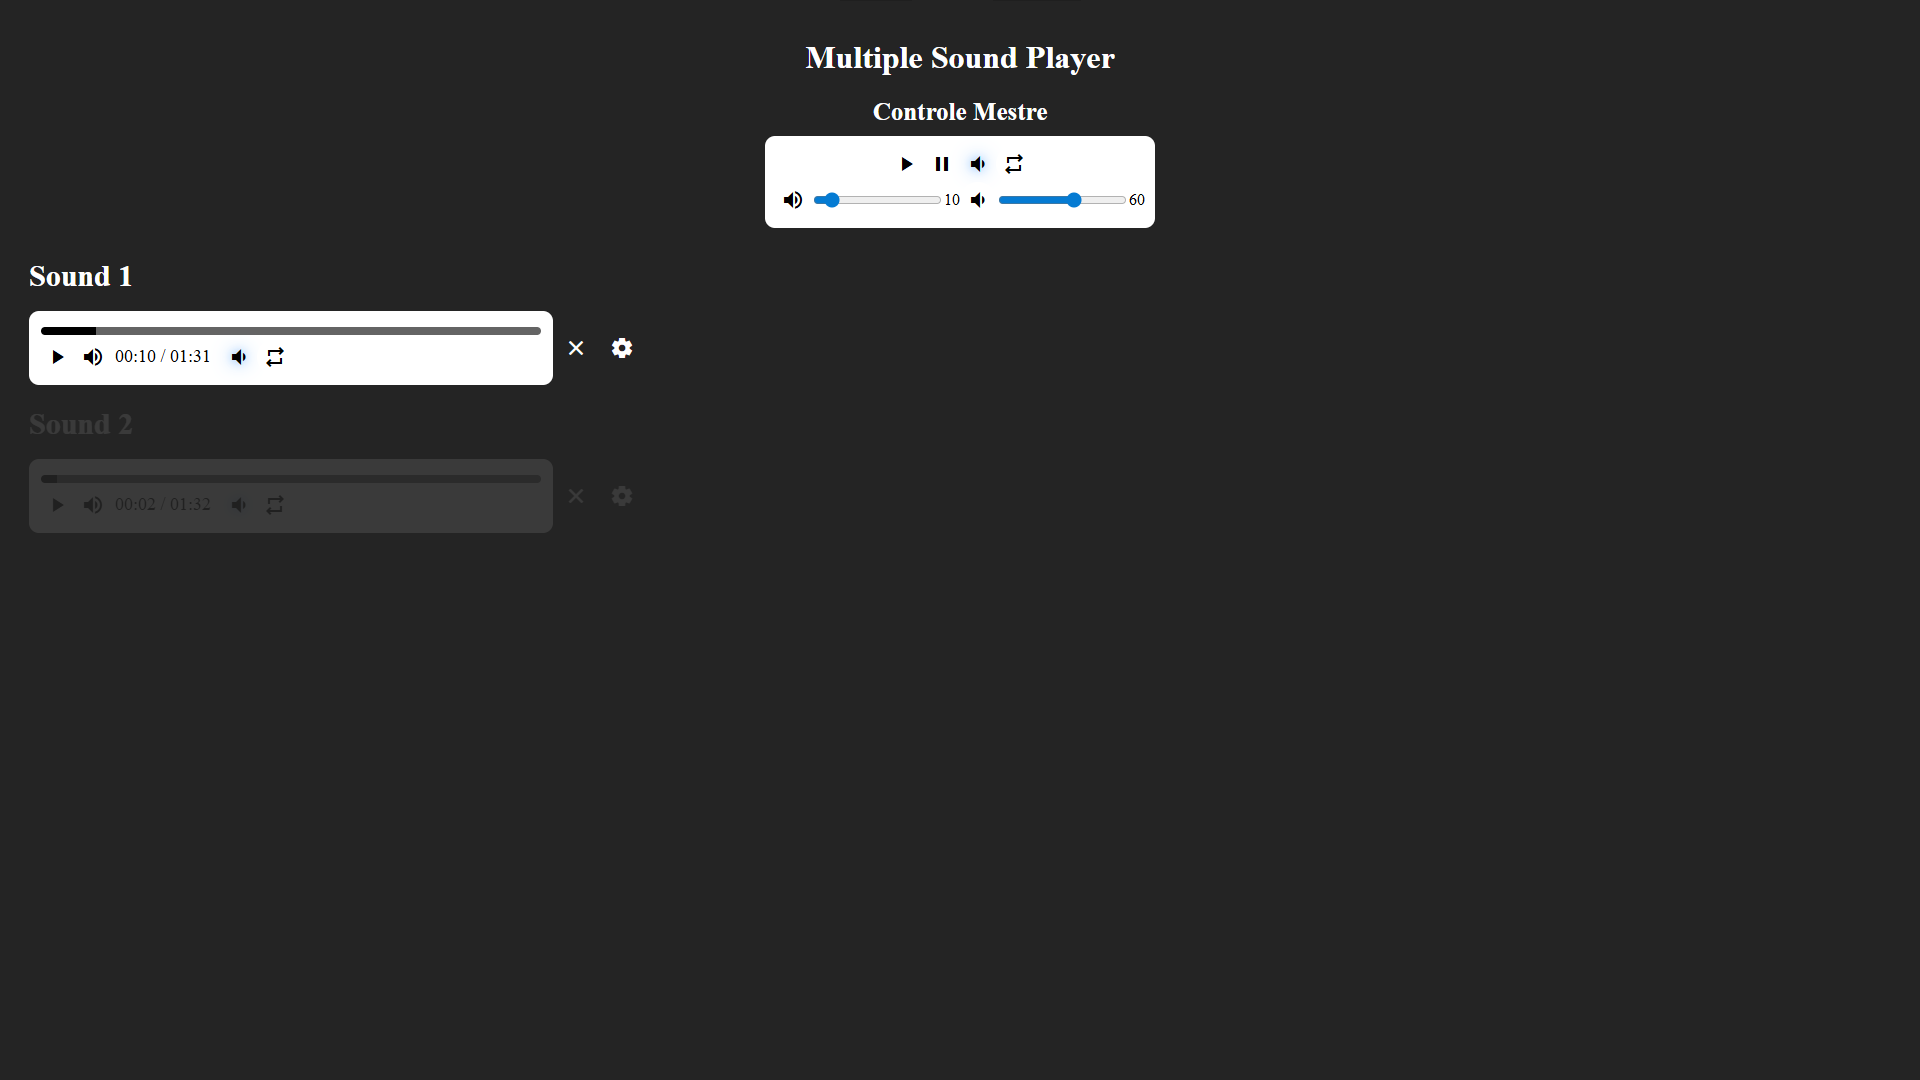
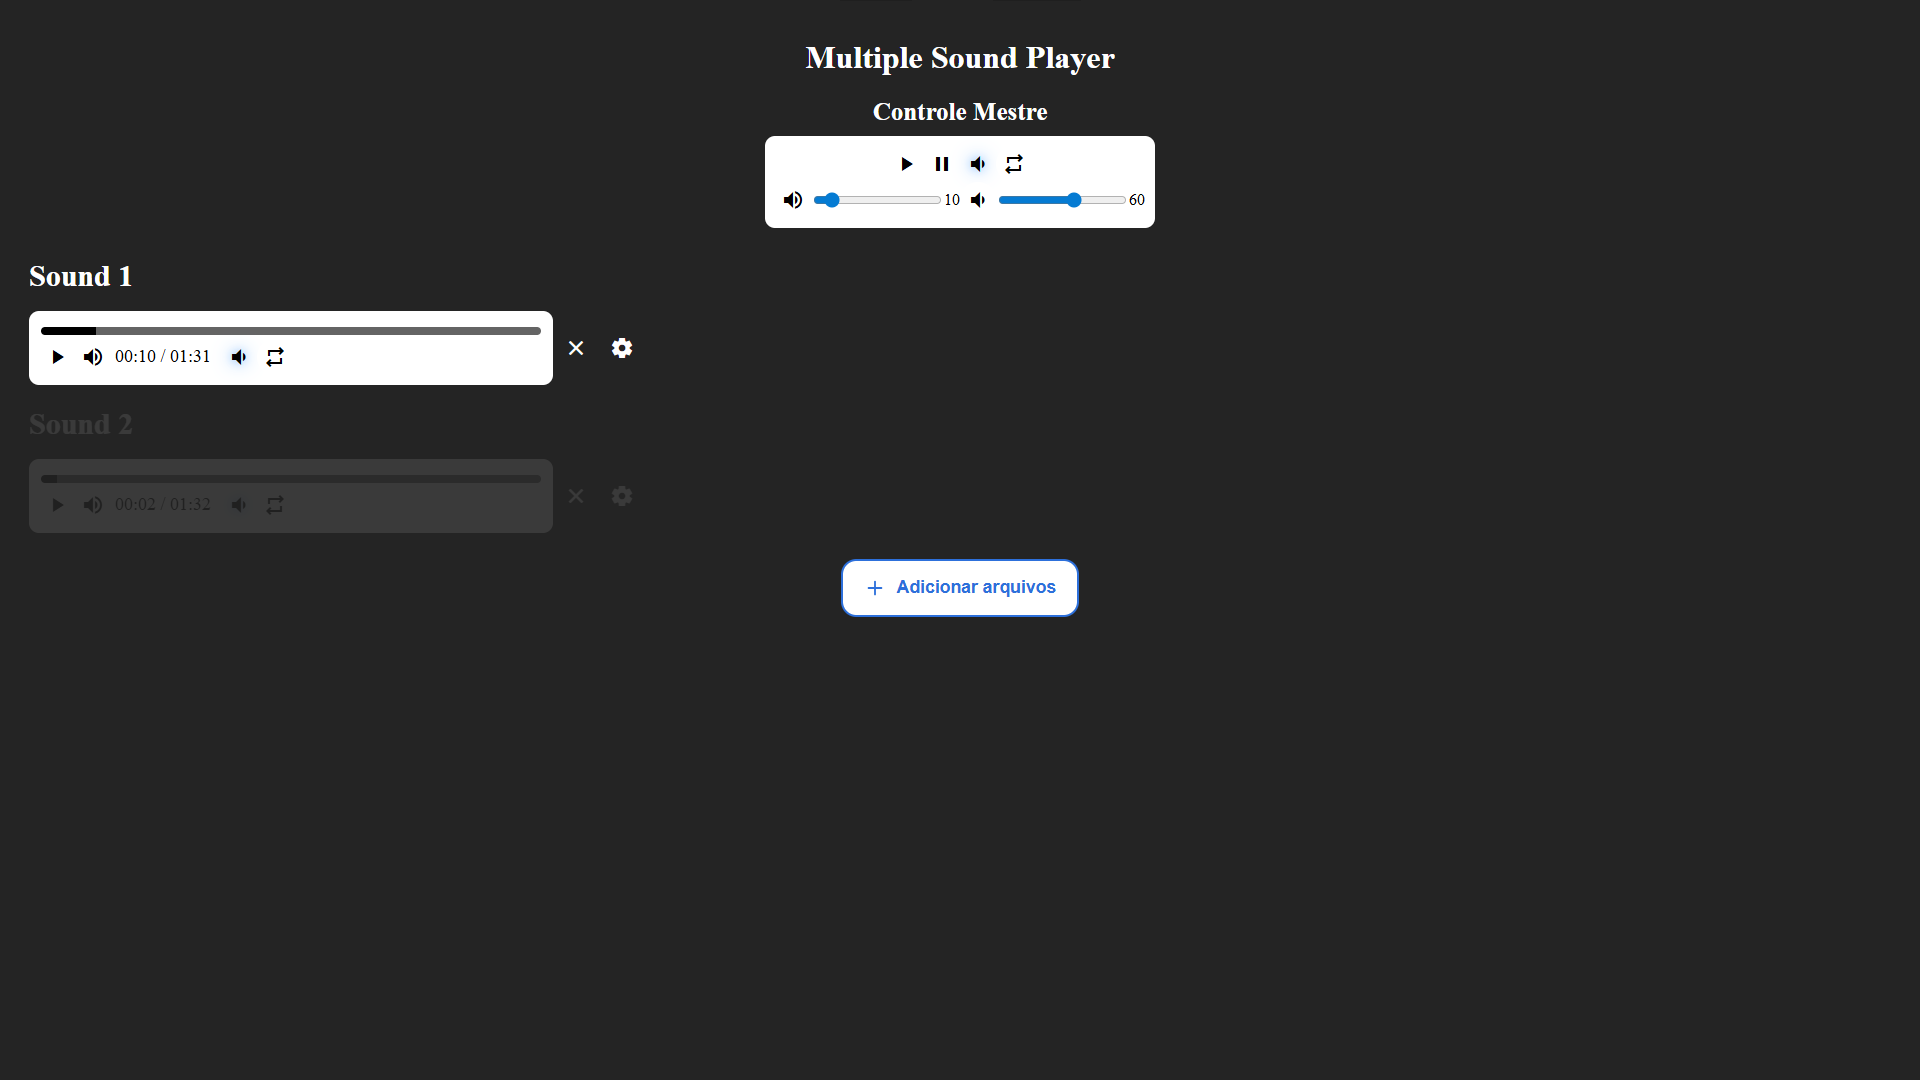
Criado botão de adicionar arquivos

Changed region(s): [[0.4375, 0.5194, 0.5625, 0.5806]]

diff --git a/src/js/player-manager.js b/src/js/player-manager.js
@@ -11,6 +11,7 @@ class PlayerManager {
         this.playerMaster = this.criarPlayerMaster()
         this.players = this.criarPlayers(this.files) // Lista com os objetos de player
         this.playerAtual = 0 // Índice do player atual
+        this.addDiv = this.criarAddFileDiv() // Cria a div que tem o botão de adicionar arquivos
         this.updatePlayerView()
         this.updatebtnVolumeLimiter()
         
@@ -34,6 +35,61 @@ class PlayerManager {
         });
         window.addEventListener('drop', (event) => this.onDropFiles(event))
 
+    }
+
+    criarAddFileDiv() {
+        const el = {}
+
+        // Div que fica abaixo da lista de players
+        el.baseDiv = document.createElement('div')
+        el.baseDiv.classList.add('add')
+        el.baseDiv.id = 'div'
+        document.body.appendChild(el.baseDiv)
+
+        // input que vai receber os arquivos
+        el.input = document.createElement('input')
+        el.input.classList.add('add')
+        el.input.id = 'file-input'
+        el.input.type = 'file'
+        el.input.multiple = 'true'
+        el.input.ariaHidden = 'true'
+        
+        el.btn = document.createElement('button')
+        el.btn.classList.add('add')
+        el.btn.id = 'upload-btn'
+        el.btn.type = 'button'
+        el.btn.ariaControls = 'file-input'
+        el.baseDiv.appendChild(el.btn)
+        el.btn.innerHTML = `
+            <svg viewBox="0 0 24 24" fill="none">
+                <path d="M12 5v14M5 12h14" stroke-width="2" stroke-linecap="round" stroke-linejoin="round"/>
+            </svg>
+            Adicionar arquivos
+            `
+        
+        // Eventos
+        el.btn.addEventListener('click', () => el.input.click())
+
+        // Processar arquivos selecionados
+        el.input.addEventListener('change', () => {
+            const tempLinks = {}
+    
+            for (const file of el.input.files) {
+                if (file.type && file.type.startsWith('audio/')) {
+                    const audioURL = URL.createObjectURL(file)
+                    tempLinks[file.name] = audioURL
+                } else {
+                    const fileType = file.type || 'Desconhecido';
+                    alert(`Arquivo inválido: ${file.name}\nTipo: ${fileType}\nApenas arquivos de áudio são aceitos.`);
+                }
+            }
+            
+            // Salva o players
+            this.players.push(...this.criarPlayers(tempLinks))
+            this.updatePlayerView()
+        })
+
+        return el
     }
     criarPlayerMaster() {
         const el = {}
@@ -281,6 +337,13 @@ class PlayerManager {
         }
     }
     criarPlayers(files) { // Retorna uma lista com os objetos de player
+        if (!this.playersDiv) { // Cria a div que vai receber os players
+            this.playersDiv = document.createElement('div')
+            this.playersDiv.classList.add('players-div')
+            document.body.appendChild(this.playersDiv)
+        }
+
+
         let players = []
         
         // Define o começo da contagem pela quantidaque que já tem
@@ -294,7 +357,7 @@ class PlayerManager {
         // Cria os players
         for (const [name, link] of Object.entries(files)) {           
             let newPlayer = new Player(this, i, name, link, this.config.globalMaxVolume)
-            newPlayer.append(document.body)
+            newPlayer.append(this.playersDiv)
             players.push(newPlayer)
             i++
         }

diff --git a/src/css/add-div.css b/src/css/add-div.css
@@ -1,0 +1,68 @@
+@charset "UTF-8";
+
+:root {
+    --add-btn-bg: #ffffff;
+    --add-btn-border: #2d6cdf;
+    --add-btn-shadow: #58a3ff80;
+    --add-btn-text: #2d6cdf;
+    --add-btn-hover-bg: #f3f7ff;
+    --add-btn-hover-border: #1f57c3;
+    --add-btn-hover-text: #1f57c3;
+    --add-btn-active-bg: #e6efff;
+    --add-focus-ring: 0 0 0 4px rgba(45,108,223,0.18);
+    --add-radius: 14px;
+}
+
+/* Div base com o botão de adicionar arquivos */
+.add#div {
+    margin: 10px 0px;
+    text-align: center;
+}
+
+/* Botão de adicionar arquivos */
+.add #upload-btn {
+    display: inline-flex;
+    align-items: center;
+    gap: .6rem;
+    border: 2px solid var(--add-btn-border);
+    color: var(--add-btn-text);
+    background: var(--add-btn-bg);
+    padding: .9rem 1.2rem;
+    border-radius: var(--add-radius);
+    font-size: 1rem;
+    font-weight: 700;
+    cursor: pointer;
+    transition: 
+        background-color .2s ease, 
+        box-shadow .2s ease, 
+        border-color .2s ease, 
+        color .2s ease, 
+        transform .02s ease-in;
+        
+    user-select: none;
+}
+.add #upload-btn:hover {
+    background: var(--add-btn-hover-bg);
+    border-color: var(--add-btn-hover-border);
+    color: var(--add-btn-hover-text);
+    box-shadow: 
+        0 0 8px var(--add-btn-shadow), 
+        0 0 16px var(--add-btn-shadow), 
+        0 0 24px var(--add-btn-shadow);
+}
+}
+.add #upload-btn:active {
+    transform: translateY(1px);
+    background: var(--add-btn-active-bg);
+}
+.add #upload-btn:focus-visible {
+    outline: none;
+    box-shadow: var(--add-focus-ring);
+}
+
+/* Ícone de + dentro de botão de adicionar arquivos*/
+.add #upload-btn svg {
+    width: 20px;
+    height: 20px;
+    stroke: currentColor;
+}

diff --git a/index.html b/index.html
@@ -7,6 +7,7 @@
     <link rel="stylesheet" href="src/css/master-control.css">
     <link rel="stylesheet" href="src/css/player-interface-1.css">
     <link rel="stylesheet" href="src/css/config-interface-1.css">
+    <link rel="stylesheet" href="src/css/add-div.css">
     <title>Multiple Sound Player</title>
 </head>
 <body>

diff --git a/src/css/player-interface-1.css b/src/css/player-interface-1.css
@@ -206,7 +206,7 @@
     border-radius: 50%;
     cursor: pointer;
     justify-content: center;
-    transition: background-color 0.3s; 
+    transition: background-color 0.3s;
 }
 
 .player .btn-remove:hover, .player .btn-settings:hover{

diff --git a/README.md b/README.md
@@ -172,7 +172,7 @@ Comandos que são ativados apertando as teclas de atalhos.
 
 ### Adição de arquivos
 
-Para adicionar um novo arquivo de áudio, é só arrastar e soltar os arquivos na página, se for um arquivo de áudio, ele vai automaticamente abrir. A compatibilidade com os formatos depende no navegador, então mesmo se o arquivo for aberto pelo player, se o navegador não o aceitar, ele não vai funcionar.
+Para adicionar um novo arquivo de áudio, é só arrastar e soltar os arquivos na página ou apertar o botão "Adicionar arquivos", que vai abrir uma janela pedindo para selecionar os arquivos, se for um arquivo de áudio, ele vai automaticamente abrir. A compatibilidade com os formatos depende no navegador, então mesmo se o arquivo for aberto pelo player, se o navegador não o aceitar, ele não vai funcionar.
 
 ## Créditos
 
@@ -181,4 +181,4 @@ Código escrito por Vanzicleiton.
 
 Comentário do Autor:
 
-Desculpe se a explicação ficou confusa, garanto que usar a aplicação é mais fácil do que ler isso tudo.
+Desculpe se a explicação ficou confusa, garanto que usar a aplicação é mais fácil do que ler isso tudo.
